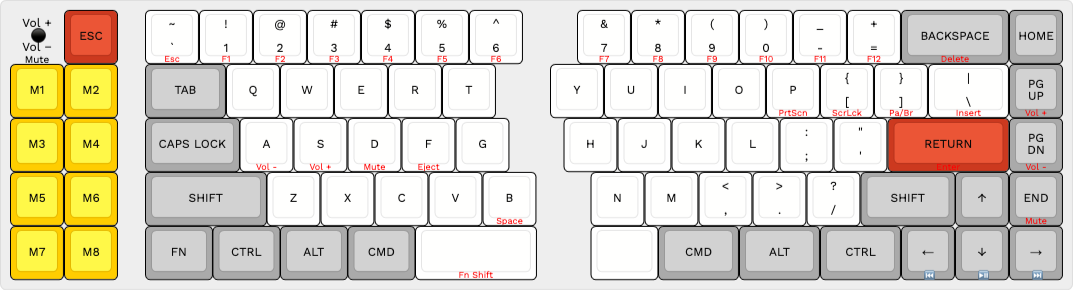
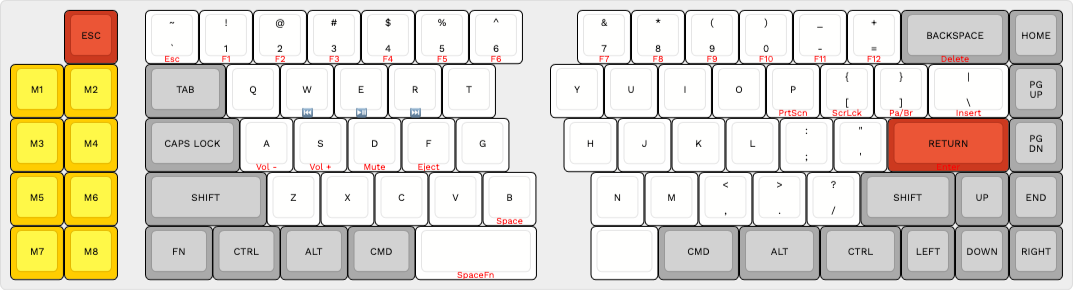
New images and minor text additions

diff --git a/keebio-sinc-rev3-75-macro.md b/keebio-sinc-rev3-75-macro.md
@@ -6,9 +6,27 @@
 
 ---
 
-* Rotary encoder in corner on each side.
-* Sun fun cluster (except for <kbd>Help</kbd>) on macro section
+A <strong>93-key QWERTY split staggered keyboard layout</strong>, inspired by the Sun Type 5 & Type 6 keyboards.
+
+* 2 rotary encoders soldered in corners
+* Stepped <kbd>Caps Lock</kdb>
+* 10 [Sun fun cluster](https://deskthority.net/wiki/Fun_cluster#Sun) keys on macro section:
+  * <kbd>Stop</kbd> <kbd>Again</kbd>
+  * <kbd>Props</kbd> <kbd>Undo</kbd>
+  * <kbd>Front</kbd> <kbd>Copy</kbd>
+  * <kbd>Open</kbd> <kbd>Paste</kbd>
+  * <kbd>Find</kbd> <kbd>Cut</kbd>
+  * No <kbd>Help</kbd> key
+* <kbd>Fn</kbd> + <kbd>F7</kbd> to access numpad
+* <kbd>Print Screen</kbd> seen as <kbd>F13</kbd> on macOS
+* <kbd>Scroll Lock</kbd> on <kbd>Fn</kbd>+ <kbd>F8</kbd>, seen as <kbd>F14</kbd> on macOS
+* <kbd>Pause</kbd> on <kbd>Fn</kbd> + <kbd>Stop</kbd>, seen as <kbd>F15</kbd> on macOS
+* <kbd>F16</kbd> … <kbd>F19</kbd> on <kbd>Fn</kbd> layer of left column macro keys
 
 ## Keycaps
 
 [NicePBT Type 6](https://cannonkeys.com/products/nicepbt-type-6)
+
+## References
+
+* _Deskthority Wiki_: [Sun Compact 1](https://deskthority.net/wiki/Sun_Compact_1).

diff --git a/keebio-quefrency-rev2-65-macro.md b/keebio-quefrency-rev2-65-macro.md
@@ -3,3 +3,7 @@
 ![Keebio Quefrency Rev. 2 - 65% layout with macro section](images/keebio-quefrency-rev2-65-macro.png)
 
 <http://www.keyboard-layout-editor.com/#/gists/aa1afef0b95060bb544f24b522d400c1>
+
+-----
+
+79-key layout with 2 rotary encoders and 8 macro keys
